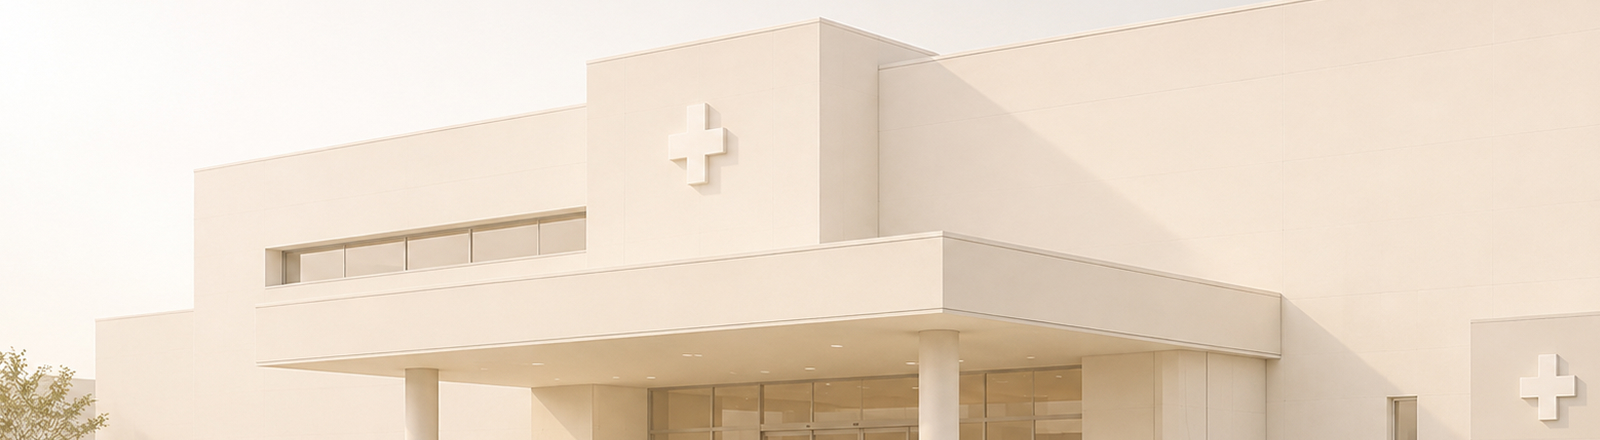
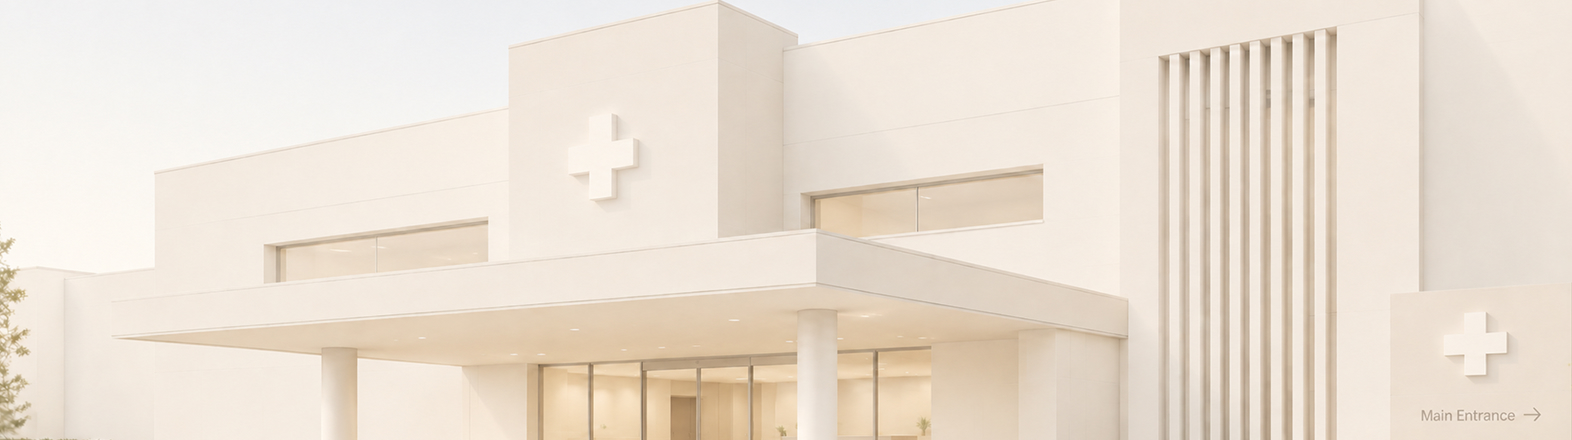
Updated product section

diff --git a/src/components/VideoConsultationBanner.jsx b/src/components/VideoConsultationBanner.jsx
@@ -26,7 +26,7 @@ export default function VideoConsultationBanner({ onClick }) {
     >
       {/* Left Image Thumbnail */}
       <div style={{
-        width: '90px',
+        width: '140px',
         height: '90px',
         borderRadius: '16px',
         overflow: 'hidden',
@@ -50,11 +50,11 @@ export default function VideoConsultationBanner({ onClick }) {
         <h3 style={{ margin: 0, fontSize: '18px', fontWeight: '600', color: '#000000', letterSpacing: '-0.2px', lineHeight: '1.2' }}>
           Online Consultation
         </h3>
-        <p style={{ margin: 0, fontSize: '13px', fontWeight: '400', color: '#555555', lineHeight: '1.35' }}>
-          Connect with Specialist Doctors
+        <p style={{ margin: 0, fontSize: '15px', fontWeight: '400', color: '#555555', lineHeight: '1.35' }}>
+          12 Doctors Available
         </p>
         <div style={{ display: 'flex', alignItems: 'center', gap: '4px', marginTop: '2px' }}>
-          <span style={{ fontSize: '14px', fontWeight: '600', color: '#CCA266' }}>Book Now</span>
+          <span style={{ fontSize: '14px', fontWeight: '600', color: '#CCA266' }}>Book an Appointment Now</span>
           <svg width="16" height="16" viewBox="0 0 24 24" fill="none" stroke="#CCA266" strokeWidth="2.5" strokeLinecap="round" strokeLinejoin="round">
             <path d="M5 12h14M12 5l7 7-7 7"/>
           </svg>

diff --git a/src/components/IPPatientPage.jsx b/src/components/IPPatientPage.jsx
@@ -372,7 +372,7 @@ export default function IPPatientPage({ onBack, onOrderMedications }) {
                     onClick={() => setSelectedVitalKey(v.key)}
                     style={{
                       cursor: 'pointer',
-                      border: isSelected ? '2px solid #CCA266' : '1px solid #F2F4F7',
+                      border: isSelected ? '1px solid #CCA266' : '1px solid #F2F4F7',
                       backgroundColor: '#FFFFFF',
                       transition: 'all 0.2s ease',
                       position: 'relative'
